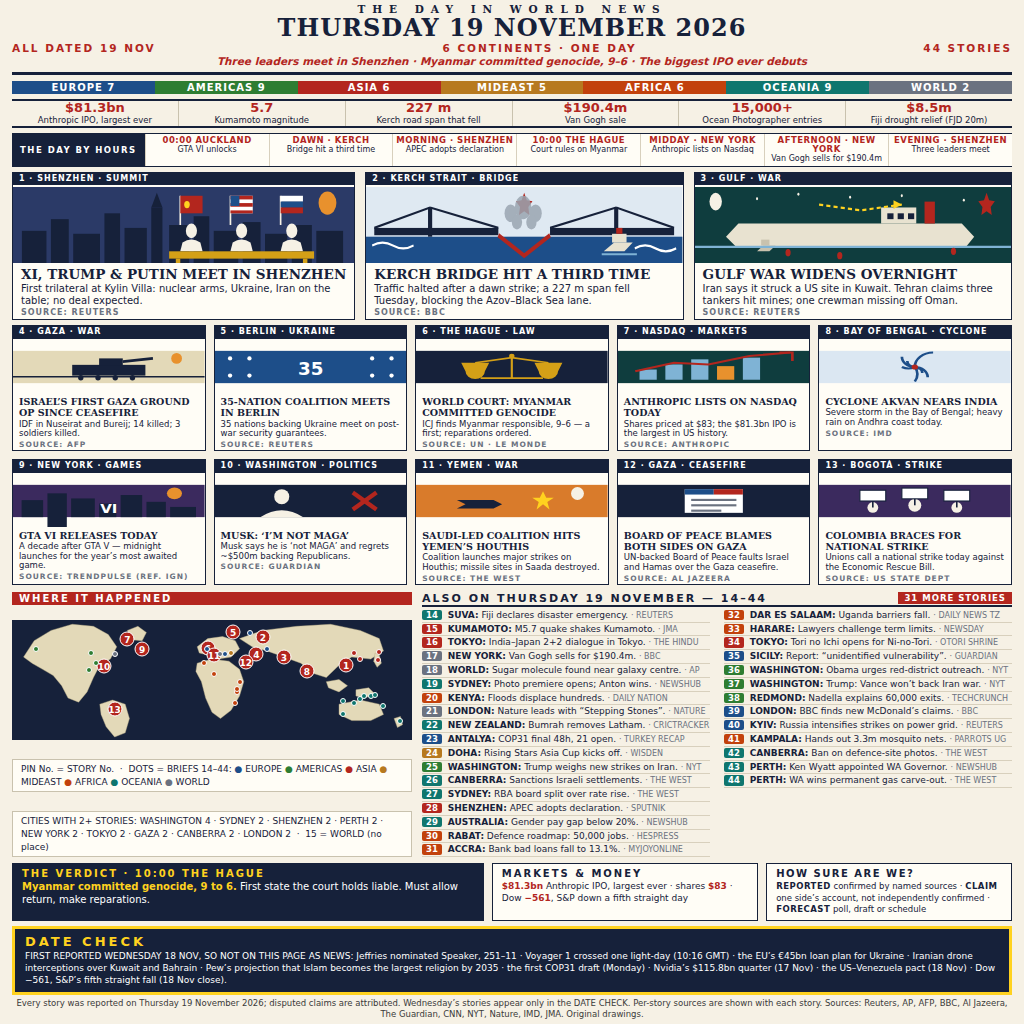
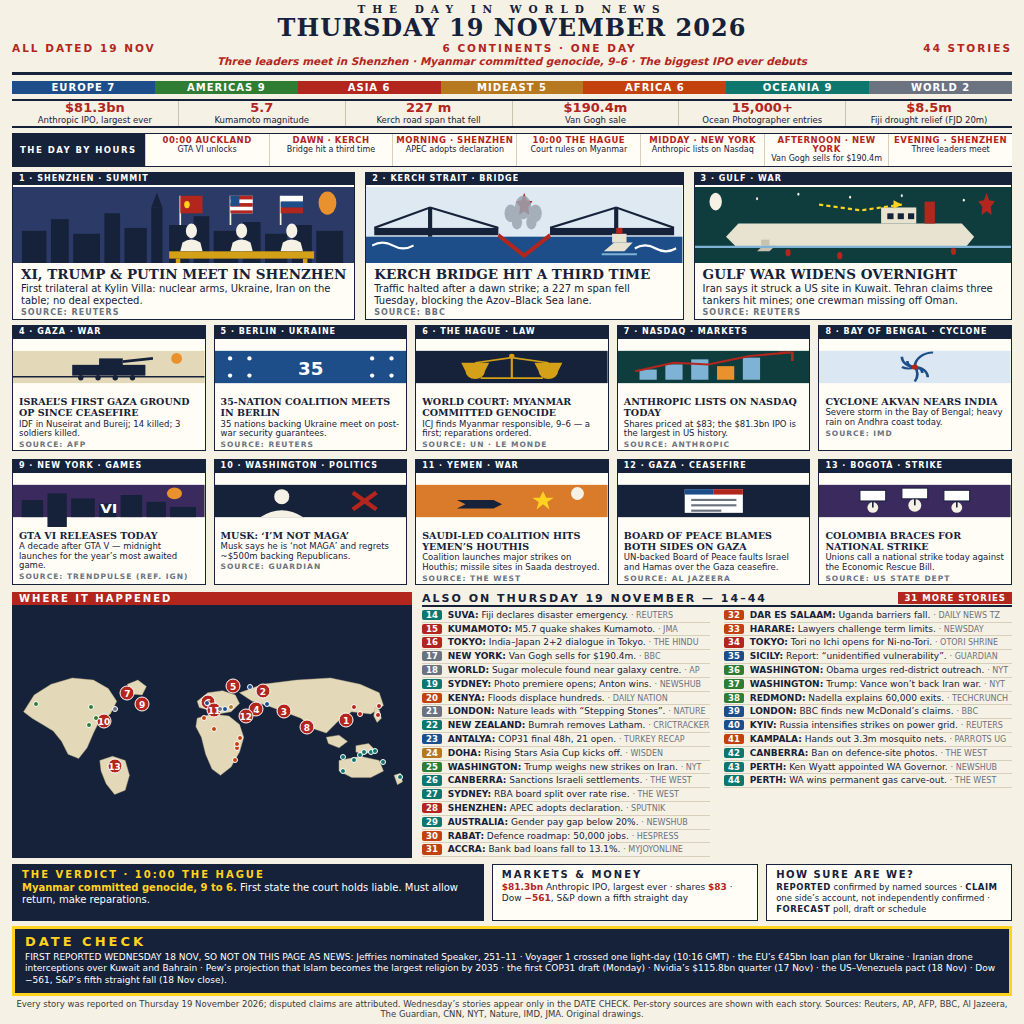
K2 v2 rev-4: map full-height (120->253px, fills briefs column), legend+cities text removed, viewBox expanded to 592 (no stretch), pins/dots remapped

diff --git a/render.html b/render.html
@@ -28,9 +28,9 @@ h1.date { font-size:24px; line-height:1.05; letter-spacing:1px; font-weight:900;
 .feat p { font-size:8.5px; line-height:1.15; margin:1px 6px 0; }
 .feat .src { font-size:7.5px; color:#6b7280; letter-spacing:1px; font-weight:bold; margin:1px 6px 1px; }
 .bottom { display:flex; gap:10px; margin-top:7px; }
-.mapcol { flex:0 0 40%; display:flex; flex-direction:column; justify-content:space-between; }
+.mapcol { flex:0 0 40%; display:flex; flex-direction:column; justify-content:flex-start; }
 .map-label { background:#b3261e; color:#fff; font-size:10px; letter-spacing:2px; font-weight:bold; padding:1px 7px; }
-.map { border:1.5px solid #16213a; background:#16213a; position:relative; height:120px; overflow:hidden; }
+.map { border:1.5px solid #16213a; background:#16213a; position:relative; flex:1; overflow:hidden; }
 .map svg { width:100%; height:100%; display:block; }
 .pin { position:absolute; width:15px; height:15px; border-radius:50%; background:#b3261e; color:#fff; font-size:9px; font-weight:bold; text-align:center; line-height:15px; transform:translate(-50%,-50%); border:1.5px solid #fff; z-index:2; }
 .dot { position:absolute; width:6px; height:6px; border-radius:50%; transform:translate(-50%,-50%); border:1px solid #fff; z-index:2; }
@@ -204,7 +204,7 @@ h1.date { font-size:24px; line-height:1.05; letter-spacing:1px; font-weight:900;
   <div class="mapcol">
     <div class="map-label">WHERE IT HAPPENED</div>
     <div class="map">
-      <svg viewBox="30 12 940 288" preserveAspectRatio="none">
+      <svg viewBox="30 -150 940 592" preserveAspectRatio="none">
         <polygon points="55,100 80,60 120,35 170,20 220,25 255,45 275,75 260,105 235,120 220,150 205,185 185,210 160,200 145,170 125,145 100,130 75,115" fill="#e3d9b8" stroke="#b9ac86" stroke-width="1"/>
         <polygon points="300,35 325,25 345,40 335,60 310,58" fill="#e3d9b8" stroke="#b9ac86" stroke-width="1"/>
         <polygon points="235,215 265,205 295,215 305,250 295,285 270,295 250,270 238,240" fill="#e3d9b8" stroke="#b9ac86" stroke-width="1"/>
@@ -218,53 +218,51 @@ h1.date { font-size:24px; line-height:1.05; letter-spacing:1px; font-weight:900;
         <polygon points="800,215 850,205 895,215 905,240 875,255 830,255 800,240" fill="#e3d9b8" stroke="#b9ac86" stroke-width="1"/>
         <polygon points="930,250 945,245 950,265 938,272" fill="#e3d9b8" stroke="#b9ac86" stroke-width="1"/>
       </svg>
-      <div class="pin" style="left:83.72%;top:37.50%">1</div>
-      <div class="pin" style="left:62.77%;top:13.54%">2</div>
-      <div class="pin" style="left:68.09%;top:30.21%">3</div>
-      <div class="pin" style="left:61.17%;top:28.12%">4</div>
-      <div class="pin" style="left:55.32%;top:9.38%">5</div>
-      <div class="pin" style="left:48.94%;top:22.92%">6</div>
-      <div class="pin" style="left:28.72%;top:15.62%">7</div>
-      <div class="pin" style="left:73.83%;top:42.71%">8</div>
-      <div class="dot" style="left:97.34%;top:84.38%;background:#0f766e"></div>
-      <div class="dot" style="left:87.23%;top:32.29%;background:#b3261e"></div>
-      <div class="dot" style="left:92.02%;top:26.04%;background:#b3261e"></div>
-      <div class="pin" style="left:32.45%;top:23.96%">9</div>
-      <div class="dot" style="left:25.53%;top:28.12%;background:#6b7280"></div>
-      <div class="pin" style="left:22.87%;top:38.54%">10</div>
-      <div class="dot" style="left:25.53%;top:77.08%;background:#6b7280"></div>
-      <div class="pin" style="left:50.53%;top:29.17%">11</div>
-      <div class="pin" style="left:58.51%;top:34.38%">12</div>
-      <div class="pin" style="left:25.53%;top:75.00%">13</div>
-      <div class="dot" style="left:89.89%;top:63.54%;background:#0f766e"></div>
-      <div class="dot" style="left:56.91%;top:52.08%;background:#c2410c"></div>
-      <div class="dot" style="left:52.13%;top:28.12%;background:#6b7280"></div>
-      <div class="dot" style="left:93.09%;top:71.88%;background:#0f766e"></div>
-      <div class="dot" style="left:63.83%;top:23.96%;background:#1d4e89"></div>
-      <div class="dot" style="left:54.79%;top:27.08%;background:#b7791f"></div>
-      <div class="dot" style="left:20.74%;top:35.42%;background:#2e7d32"></div>
-      <div class="dot" style="left:87.23%;top:66.15%;background:#0f766e"></div>
-      <div class="dot" style="left:90.96%;top:62.50%;background:#0f766e"></div>
-      <div class="dot" style="left:85.64%;top:27.08%;background:#b3261e"></div>
-      <div class="dot" style="left:85.64%;top:69.79%;background:#0f766e"></div>
-      <div class="dot" style="left:47.87%;top:35.42%;background:#c2410c"></div>
-      <div class="dot" style="left:50.53%;top:44.79%;background:#c2410c"></div>
-      <div class="dot" style="left:56.38%;top:60.07%;background:#c2410c"></div>
-      <div class="dot" style="left:55.85%;top:69.79%;background:#c2410c"></div>
-      <div class="dot" style="left:91.70%;top:33.33%;background:#b3261e"></div>
-      <div class="dot" style="left:53.19%;top:28.12%;background:#1d4e89"></div>
-      <div class="dot" style="left:19.68%;top:27.08%;background:#2e7d32"></div>
-      <div class="dot" style="left:19.15%;top:41.67%;background:#2e7d32"></div>
-      <div class="dot" style="left:5.85%;top:23.96%;background:#2e7d32"></div>
-      <div class="dot" style="left:48.72%;top:23.61%;background:#1d4e89"></div>
-      <div class="dot" style="left:59.57%;top:10.42%;background:#1d4e89"></div>
-      <div class="dot" style="left:56.38%;top:57.29%;background:#c2410c"></div>
-      <div class="dot" style="left:88.30%;top:63.54%;background:#0f766e"></div>
-      <div class="dot" style="left:82.98%;top:67.71%;background:#0f766e"></div>
-      <div class="dot" style="left:82.98%;top:79.17%;background:#0f766e"></div>
+      <div class="pin" style="left:83.72%;top:45.61%">1</div>
+      <div class="pin" style="left:62.77%;top:33.95%">2</div>
+      <div class="pin" style="left:68.09%;top:42.06%">3</div>
+      <div class="pin" style="left:61.17%;top:41.04%">4</div>
+      <div class="pin" style="left:55.32%;top:31.93%">5</div>
+      <div class="pin" style="left:48.94%;top:38.52%">6</div>
+      <div class="pin" style="left:28.72%;top:34.96%">7</div>
+      <div class="pin" style="left:73.83%;top:48.14%">8</div>
+      <div class="dot" style="left:97.34%;top:68.41%;background:#0f766e"></div>
+      <div class="dot" style="left:87.23%;top:43.07%;background:#b3261e"></div>
+      <div class="dot" style="left:92.02%;top:40.03%;background:#b3261e"></div>
+      <div class="pin" style="left:32.45%;top:39.02%">9</div>
+      <div class="dot" style="left:25.53%;top:41.04%;background:#6b7280"></div>
+      <div class="pin" style="left:22.87%;top:46.11%">10</div>
+      <div class="dot" style="left:25.53%;top:64.86%;background:#6b7280"></div>
+      <div class="pin" style="left:50.53%;top:41.56%">11</div>
+      <div class="pin" style="left:58.51%;top:44.09%">12</div>
+      <div class="pin" style="left:25.53%;top:63.85%">13</div>
+      <div class="dot" style="left:89.89%;top:58.28%;background:#0f766e"></div>
+      <div class="dot" style="left:56.91%;top:52.70%;background:#c2410c"></div>
+      <div class="dot" style="left:52.13%;top:41.04%;background:#6b7280"></div>
+      <div class="dot" style="left:93.09%;top:62.33%;background:#0f766e"></div>
+      <div class="dot" style="left:63.83%;top:39.02%;background:#1d4e89"></div>
+      <div class="dot" style="left:54.79%;top:40.54%;background:#b7791f"></div>
+      <div class="dot" style="left:20.74%;top:44.60%;background:#2e7d32"></div>
+      <div class="dot" style="left:87.23%;top:59.55%;background:#0f766e"></div>
+      <div class="dot" style="left:90.96%;top:57.77%;background:#0f766e"></div>
+      <div class="dot" style="left:85.64%;top:40.54%;background:#b3261e"></div>
+      <div class="dot" style="left:85.64%;top:61.32%;background:#0f766e"></div>
+      <div class="dot" style="left:47.87%;top:44.60%;background:#c2410c"></div>
+      <div class="dot" style="left:50.53%;top:49.15%;background:#c2410c"></div>
+      <div class="dot" style="left:56.38%;top:56.59%;background:#c2410c"></div>
+      <div class="dot" style="left:55.85%;top:61.32%;background:#c2410c"></div>
+      <div class="dot" style="left:91.70%;top:43.58%;background:#b3261e"></div>
+      <div class="dot" style="left:53.19%;top:41.04%;background:#1d4e89"></div>
+      <div class="dot" style="left:19.68%;top:40.54%;background:#2e7d32"></div>
+      <div class="dot" style="left:19.15%;top:47.64%;background:#2e7d32"></div>
+      <div class="dot" style="left:5.85%;top:39.02%;background:#2e7d32"></div>
+      <div class="dot" style="left:48.72%;top:38.85%;background:#1d4e89"></div>
+      <div class="dot" style="left:59.57%;top:32.43%;background:#1d4e89"></div>
+      <div class="dot" style="left:56.38%;top:55.24%;background:#c2410c"></div>
+      <div class="dot" style="left:88.30%;top:58.28%;background:#0f766e"></div>
+      <div class="dot" style="left:82.98%;top:60.30%;background:#0f766e"></div>
+      <div class="dot" style="left:82.98%;top:65.88%;background:#0f766e"></div>
     </div>
-    <div class="map-legend">PIN No. = STORY No. &nbsp;&middot;&nbsp; DOTS = BRIEFS 14&ndash;44: <span style="color:#1d4e89">&#9679;</span> EUROPE <span style="color:#2e7d32">&#9679;</span> AMERICAS <span style="color:#b3261e">&#9679;</span> ASIA <span style="color:#b7791f">&#9679;</span> MIDEAST <span style="color:#c2410c">&#9679;</span> AFRICA <span style="color:#0f766e">&#9679;</span> OCEANIA <span style="color:#6b7280">&#9679;</span> WORLD</div>
-    <div class="cities">CITIES WITH 2+ STORIES: WASHINGTON 4 &middot; SYDNEY 2 &middot; SHENZHEN 2 &middot; PERTH 2 &middot; NEW YORK 2 &middot; TOKYO 2 &middot; GAZA 2 &middot; CANBERRA 2 &middot; LONDON 2 &nbsp;&middot;&nbsp; 15 = WORLD (no place)</div>
   </div>
   <div class="briefcol">
     <div class="briefs-head">ALSO ON THURSDAY 19 NOVEMBER &mdash; 14&ndash;44<span class="tag">31 MORE STORIES</span></div>
